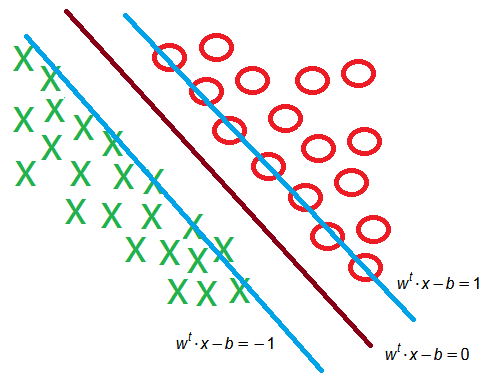
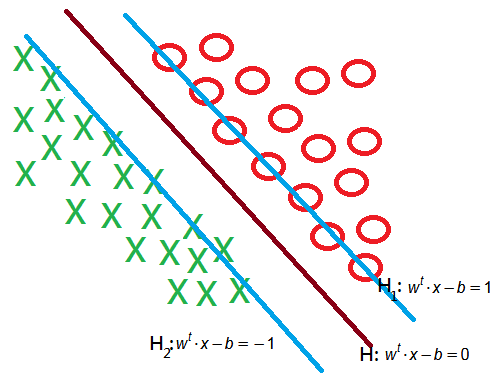
update _posts/2017-11-25-smo-to-svm-prologue.md with H1, H2 normalizing

Changed region(s): [[0.7576, 0.7199, 1.0, 0.7775], [0.303, 0.8639, 0.3636, 0.9503], [0.7273, 0.8927, 0.7879, 0.9503]]

diff --git a/_posts/2017-11-25-smo-to-svm-prologue.md b/_posts/2017-11-25-smo-to-svm-prologue.md
@@ -10,13 +10,19 @@ Supposed these data could be classified and we'd like to learn a <font color="gr
 $$f(x)=sign(w^t\cdot x-b)$$
 </p>
 
-### Separating Hyperplane with Minimum Safe Guard
+### Separating Hyperplane With Minimum Safe Guard
 >Furthermore, we want this hyperplane to have <font color="green">the minimum separating margin</font> with respect to <font color="red">the two classes</font>.
 
 ![]({{ site.github.repo }}{{ site.baseurl }}/images/pic/2017-11-25-svm-prologue-binary-classification.png "SVM for binary classification")
 
->
+>Specifically, if all goes well, there shall exist no data points in between $h_1$ and $h_2$.  
+$$\begin{array}{l}H:w^t\cdot x-b=0\\H_1:w^t\cdot x-b=1\\H_2:w^t\cdot x-b=-1\\\\\end{array}$$
 
-
-
-
+>For any separaing $H$ and the corresponding $H_1$ and $H_2$, we can solve by <font color="red">normalizing</font> the coefficient vector $w$, such that $H_1$ and $H_2$ exist.  
+>proof:  
+>&#10112;suppose $H_1:a^t\cdot x-b_1=0$ and $H_1:a^t\cdot x-b_2=0$ are two <font color="blue">parallel</font> hyperplanes.  Since they are parallel, they can have the same weight $a$.  
+>&#10113;take $\overline b=\frac{b_1+b_2}2$ and $\delta=b_1-\overline b=\overline b-b_2$  
+$$\begin{array}{l}\therefore H_1:a^t\cdot x-(\delta+\overline b)=0\\\;\;\;\;H_2:a^t\cdot x-(\overline b-\delta)=0\\\therefore H_1:a^t\cdot x-\overline b=\delta\\\;\;\;\;H_2:a^t\cdot x-\overline b=-\delta\\\end{array}$$
+>&#10114;then, divide both equality by $\delta$, we obtain:  
+$$\begin{array}{l}H_1:\frac{a^t}\delta\cdot x-\frac{\overline b}\delta=1\\H_2:\frac{a^t}\delta\cdot x-\frac{\overline b}\delta=-1\\\\\end{array}$$
+>&#10115;take $w=\frac{a^t}\delta$ and $b=\frac{\overline b}\delta$, could we get our expected $H_1$ and $H_2$.
